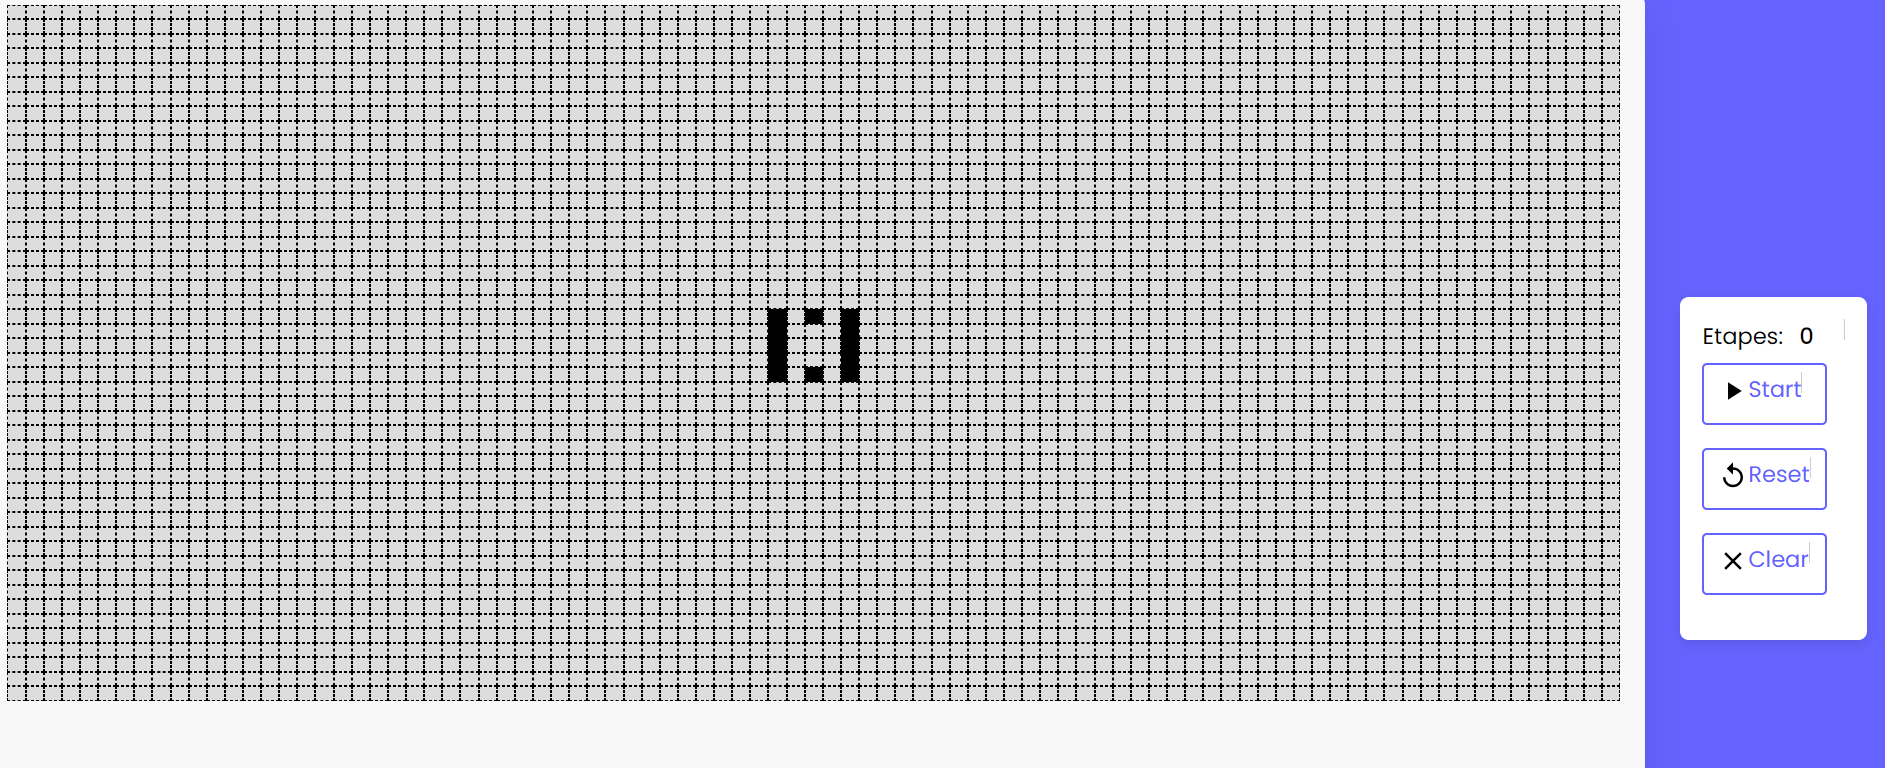
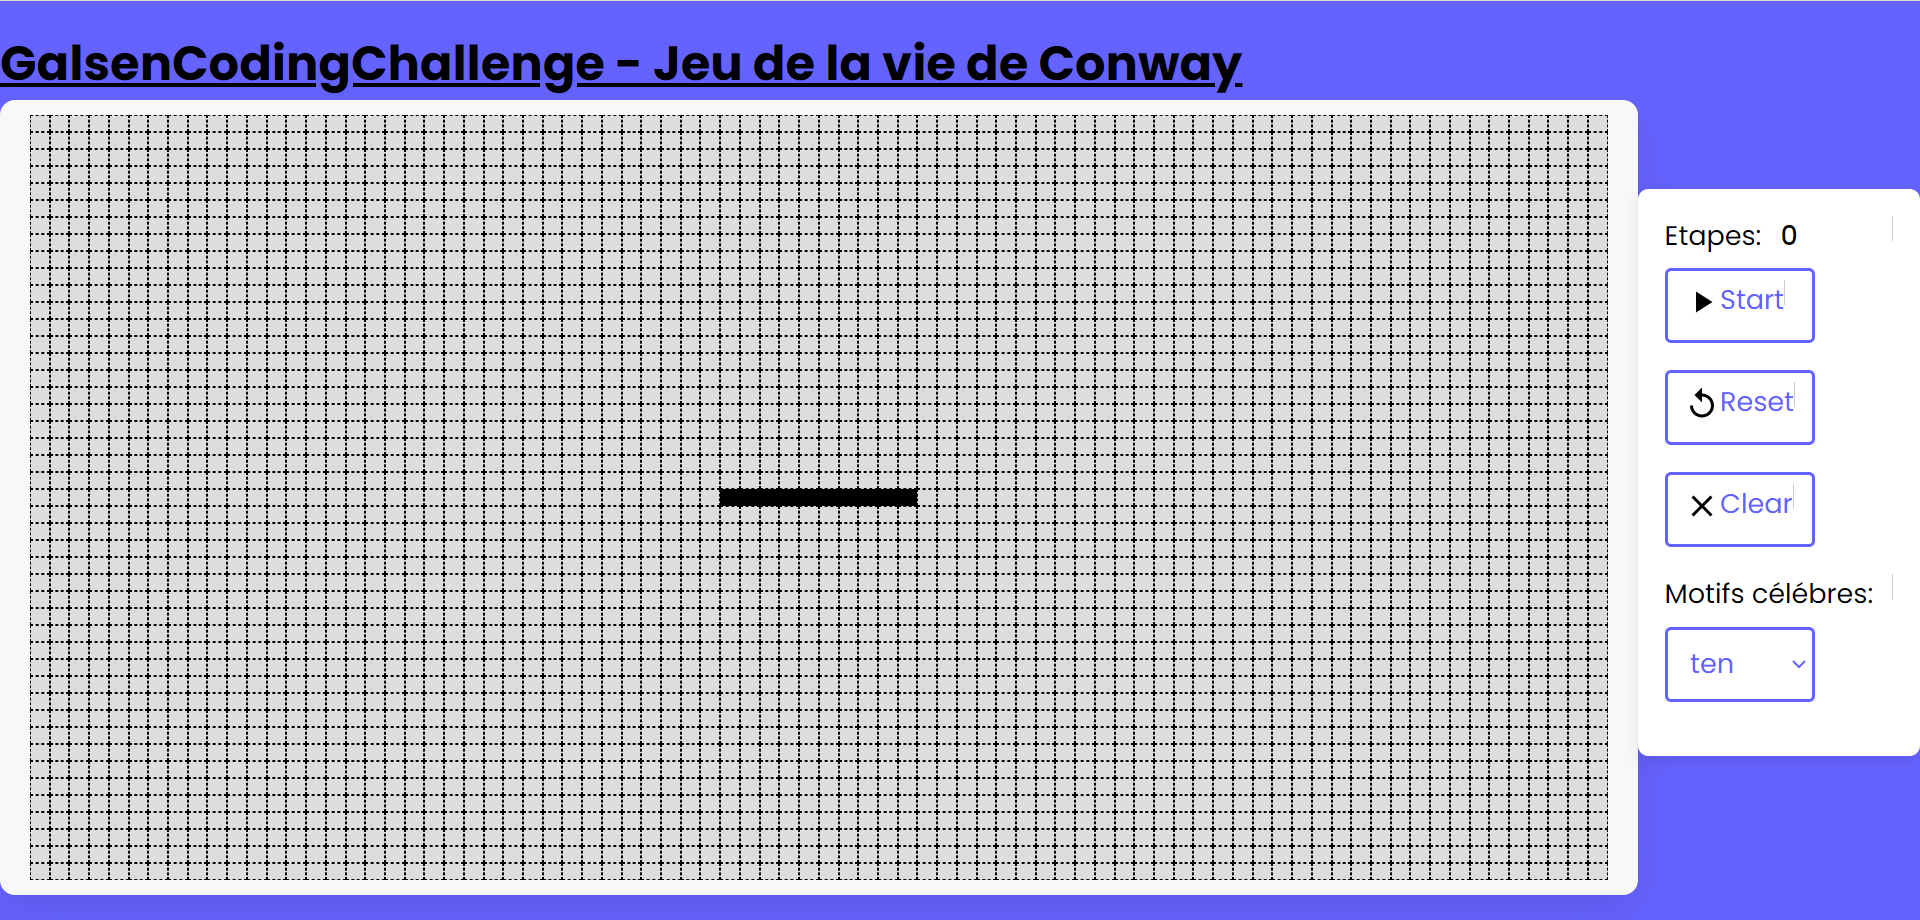
revisionnage

diff --git a/css/style.css b/css/style.css
@@ -83,7 +83,7 @@ body {
 .details p b {
   font-weight: 500;
 }
-.details button {
+.details button,  select {
   cursor: pointer;
   font-size: 14px;
   color: #6563ff;
@@ -95,6 +95,9 @@ body {
   background: #fff;
   border: 2px solid #6563ff;
   transition: 0.3s ease;
+}
+.details select {
+  font-size: 18px;
 }
 .details button:hover {
   color: #fff;
@@ -147,71 +150,4 @@ body {
     display: flex;
     width: 100%;
   }
-}
-
-nav{
-  width: 100%;
-  margin: 0 auto;
-  background-color: white;
-  position: sticky;
-  top: 0px;
-}
-
-nav ul{
-  list-style-type: none;
-}
-
-nav ul li{
-  float: left;
-  width: 25%;
-  text-align: center;
-  position: relative;
-}
-
-nav ul::after{
-  content: "";
-  display: table;
-  clear: both;
-}
-
-nav a{
-  display: block;
-  text-decoration: none;
-  color: black;
-  border-bottom: 2px solid transparent;
-  padding: 10px 0px;
-}
-
-nav a:hover{
-  color: #6563ff;
-  border-bottom: 2px solid #6563ff;
-}
-
-.sous{
-  display: none;
-  box-shadow: 0px 1px 2px #CCC;
-  background-color: white;
-  position: absolute;
-  width: 100%;
-  z-index: 1000;
-}
-nav > ul li:hover .sous{
-  display: block;
-}
-.sous li{
-  float: none;
-  width: 100%;
-  text-align: left;
-}
-.sous a{
-  padding: 10px;
-  border-bottom: none;
-}
-.sous a:hover{
-  border-bottom: none;
-  background-color: RGBa(200,200,200,0.1);
-}
-.deroulant > a::after{
-  content:" ▼";
-  font-size: 12px;
 }

diff --git a/js/methods.js b/js/methods.js
@@ -5,8 +5,7 @@
 function makeMatrix(pattern, shape) {
     // Trouver les coordonnées pour centrer X dans la grande matrice
     var position = [Math.floor((shape[0] - pattern.length)/2), Math.floor((shape[1] - pattern[0].length)/2)];
-    // Remplire les colonnes a gauches et a droites de X de 0 pour avoir un nombre 
-    // de colonne egal a shape[1] (=nombre de colonne souhaiter)
+    // Agrandir pattern
     pattern.map((line)=>{
         for (let i = 0; i < position[1]; i++) {
             line.unshift(0);
@@ -48,8 +47,6 @@ function getNextStep(matrix) {
 }
 
 function getAllSteps(grid, maximumGeneration) {
-    // let zeroGridLivingCells = Array(grid.length).fill(Array(grid[0].length).fill(0));
-    // let steps = Array(maximumGeneration).fill(zeroGridLivingCells);
     let steps = [];
     for (let i = 0; i < maximumGeneration; i++) {
         steps[i] = grid;

diff --git a/index.html b/index.html
@@ -71,8 +71,11 @@
         </div>
         <p>Clear</p>
       </button>
-      <select name="pattern" id="pattern" form="patternform">
-      </select>
+      <div>
+        <p>Motifs célébres:</p>
+        <select name="pattern" id="pattern" form="patternform">
+        </select>
+      </div>
     </div>
   
     <script src="js/patterns.js"></script>

diff --git a/js/script.js b/js/script.js
@@ -8,7 +8,7 @@ selectTag = document.querySelector("select");
 /**
  * initialize variables
  */
-let initialPattern = exploder;
+let initialPattern = ten;
 let maximumGenerationStep = 500;
 let shape = [45, 80];
 let timePerStep = 300;
